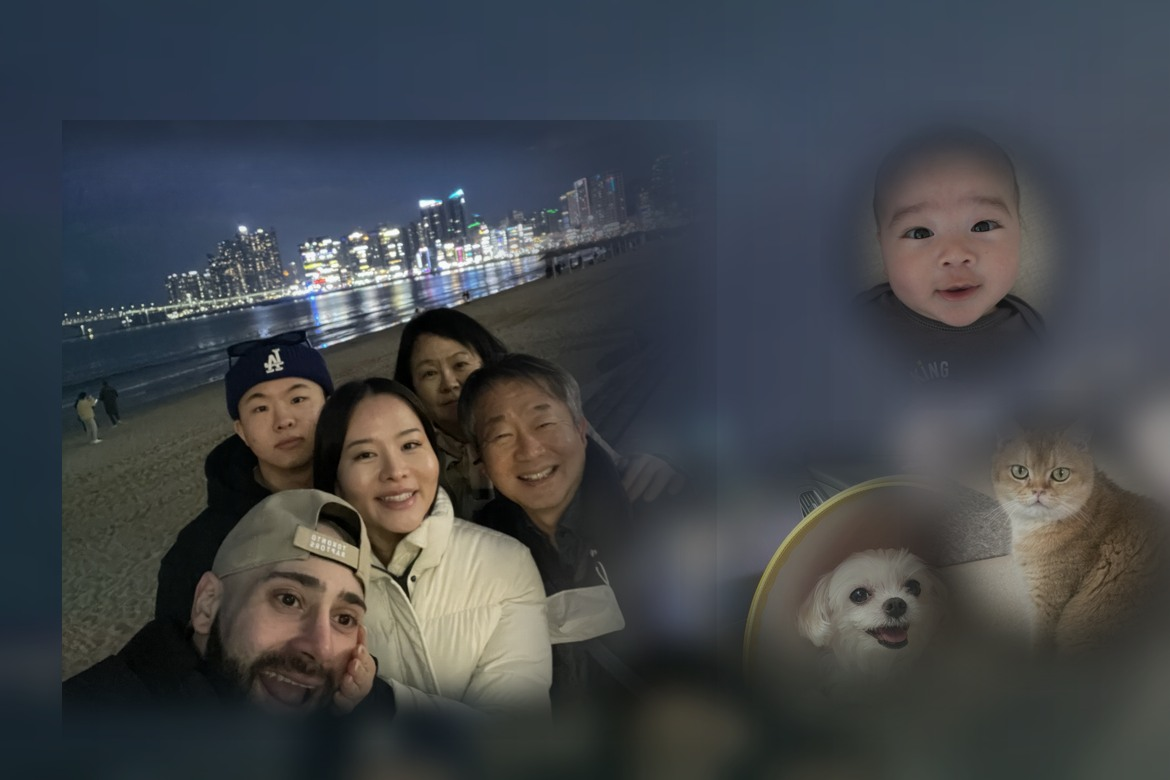
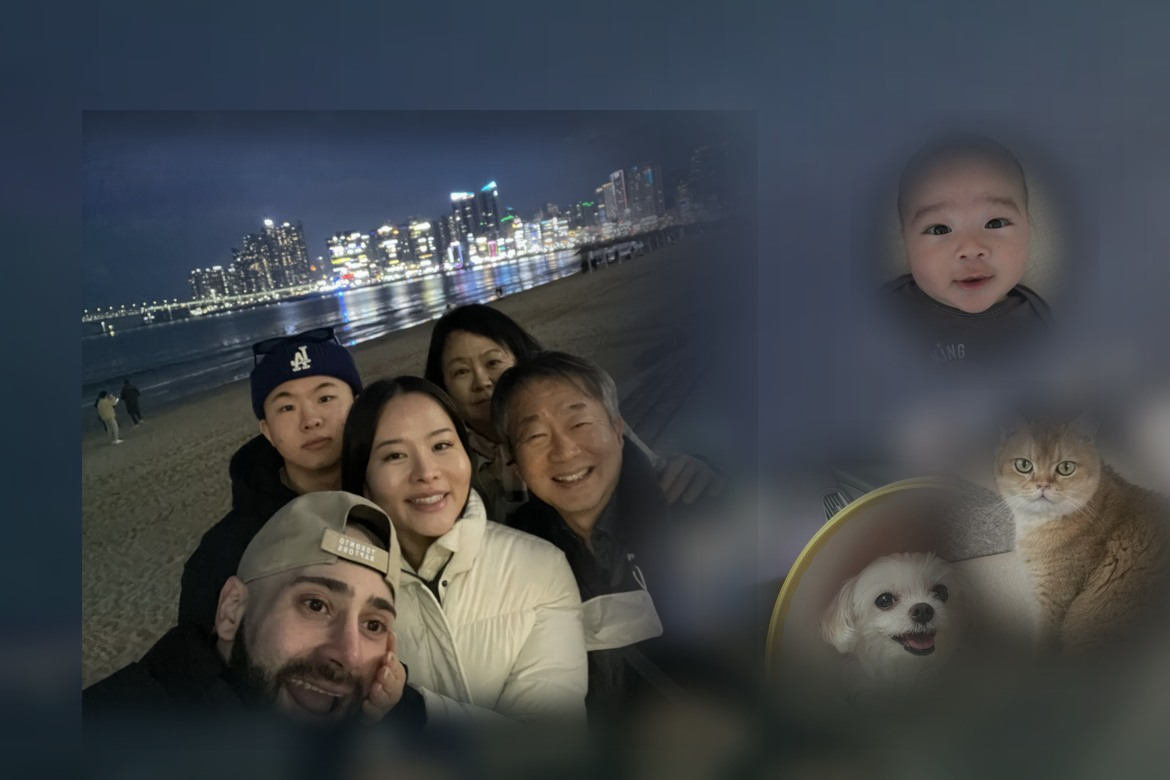
feat(header): polish gold tone and rebalance mobile collage
Softer champagne gold for motto/cheer; recompose mobile banner so
family-of-5, baby, dog, and cat sit more evenly on phone width.

diff --git a/src/components/family-banner.tsx b/src/components/family-banner.tsx
@@ -6,8 +6,8 @@ export interface FamilyBannerProps {
   calendarCount: number;
 }
 
-/** Refined gold — readable on night photo, not neon. */
-const MOTTO_GOLD = "#D4B56A";
+/** Refined champagne gold — readable on night photo, not neon yellow. */
+const MOTTO_GOLD = "#C9A66B";
 
 /**
  * Seamless top surface: family atmosphere + motto + inline stats.

diff --git a/scripts/compose-seamless-banner.py b/scripts/compose-seamless-banner.py
@@ -255,33 +255,33 @@ def compose_mobile(fam_src: Image.Image) -> Image.Image:
     canvas = city_atmosphere(fam_src, W, H)
     mist_right(canvas)
 
-    # Family cluster: larger, slightly inset; all 5 faces; sky reserved for motto
-    fw, fh = 740, 620
+    # Family cluster: centered-left, all 5 faces; sky reserved for motto
+    fw, fh = 760, 640
     family = family_plane(fam_src, fw, fh)
     family = ImageEnhance.Brightness(family).enhance(0.99)
     family = ImageEnhance.Color(family).enhance(0.98)
-    fam_mask = soft_right_fade((fw, fh), fade_start=0.62)
+    fam_mask = soft_right_fade((fw, fh), fade_start=0.64)
     bot = soft_bottom_fade((fw, fh), fade_start=0.9)
     combined = ImageChops_multiply(fam_mask, bot)
-    paste_masked(canvas, family, (20, 120), combined, 1.0)
+    paste_masked(canvas, family, (40, 110), combined, 1.0)
 
-    # Baby — mid-right, moderated scale (not dominant)
+    # Baby — upper-right, kept modest vs family scale
     baby = night_grade(
-        cover_crop(load("04-baby.png"), 280, 310, bias=(0.5, 0.2)), strength=0.48
+        cover_crop(load("04-baby.png"), 250, 280, bias=(0.5, 0.2)), strength=0.48
     )
-    paste_masked(canvas, baby, (820, 100), radial_mask((280, 310), soft=0.42), 0.92)
+    paste_masked(canvas, baby, (850, 110), radial_mask((250, 280), soft=0.44), 0.91)
 
     # Dog — stronger presence vs baby
     dog = night_grade(
-        cover_crop(load("02-dog.png"), 320, 320, bias=(0.5, 0.38)), strength=0.5
+        cover_crop(load("02-dog.png"), 330, 330, bias=(0.5, 0.38)), strength=0.5
     )
-    paste_masked(canvas, dog, (680, 420), radial_mask((320, 320), soft=0.36), 0.95)
+    paste_masked(canvas, dog, (700, 420), radial_mask((330, 330), soft=0.36), 0.95)
 
-    # Cat — far right
+    # Cat — far right, similar scale to dog
     cat = night_grade(
-        cover_crop(load("03-cat.png"), 300, 300, bias=(0.52, 0.32)), strength=0.48
+        cover_crop(load("03-cat.png"), 310, 310, bias=(0.52, 0.32)), strength=0.48
     )
-    paste_masked(canvas, cat, (900, 390), radial_mask((300, 300), soft=0.38), 0.94)
+    paste_masked(canvas, cat, (900, 380), radial_mask((310, 310), soft=0.38), 0.94)
 
     bridge = Image.new("RGBA", (W, H), (0, 0, 0, 0))
     bd = ImageDraw.Draw(bridge)
